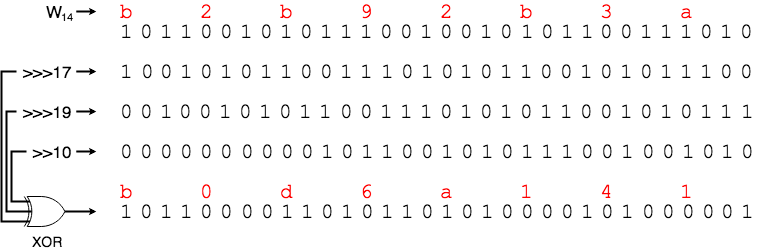
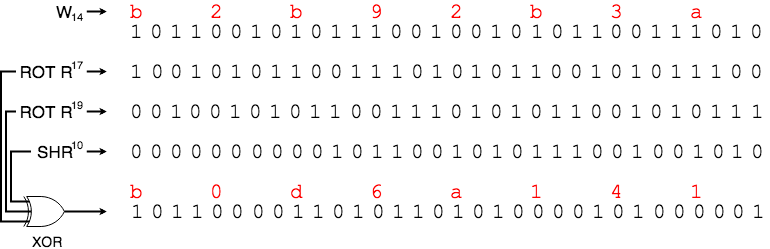
Update Tex file and upload new images.

diff --git a/Bitcoin_block_SHA_256_es.tex b/Bitcoin_block_SHA_256_es.tex
@@ -373,7 +373,7 @@ int main(int argc, char *argv[]) {
             \includegraphics[scale=0.5]{img/SHA-256-Wt.png}
             \caption{Representación gráfica de $W_{t}$}
         \end{figure}
-    Las funciones  $\sigma_{0}$ y $\sigma_{1}$ realizan las siguientes operaciones lógicas de compresión.
+    Las funciones  $\sigma_{0}$ y $\sigma_{1}$ realizan las siguientes operaciones lógicas de compresión con cada uno de los bits de la palabra almacenada en el segmento de $W_t$ que procesan.
         \begin{figure}[H]
         \centering
             $\begin{array}{l}
@@ -392,19 +392,38 @@ int main(int argc, char *argv[]) {
         $\Downarrow$ \\
         $\sigma_{1}(W_{14})+W_{9}+\sigma_{0}(W_{1})+W_{0}$
     \end{figure}
+    
     En este ejemplo los segmentos $W_{14}$, $W_{9}$, $W_{1}$ y $W_{0}$ de la primera ronda (\textit{Ronda \texttt{\#}0}) tienen asignados los siguientes valores:
     \begin{figure}[H]
     \centering
-        $W_{14} = \texttt{0xb2b92b3a} \ W_{9} = \texttt{0x8a97295a}$ \\
-        $W_{1} = \texttt{0x17975b97} \ W_{0} = \texttt{0x02000000}$
+        $\begin{array}{rl}
+            W_{14} = \texttt{0xb2b92b3a} & W_{9} = \texttt{0x8a97295a} \\
+            W_{1}\  = \texttt{0x17975b97} & W_{0} = \texttt{0x02000000}
+        \end{array}$
     \end{figure}
     
-    Empecemos con la operación lógica de compresión $\sigma_{1}$, que aplica sobre el valor del segmento $W_{14}$.
+    A continuación se muestra una representación gráfica la operación lógica de compresión $\sigma_{1}$, que aplica sobre el valor del segmento $W_{14}$.
     
     \begin{figure}[H]
     \centering
-        \includegraphics[scale=0.41]{img/SHA-256-Wt_operacion_sigma1.png}
-        \caption{Cálculo bit a bit para $ROT \ R^{17}(x) \oplus ROT \ R^{19}(x) \oplus SHR^{10}(x)$}
+        \includegraphics[scale=0.445]{img/SHA-256-Wt_operacion_sigma1.png}
+        \caption{Operación $ROT \ R^{17}(x) \oplus ROT \ R^{19}(x) \oplus SHR^{10}(x)$ con cada bit.}
+    \end{figure}
+    
+    Tras el cálculo de $\sigma_{1}(W_{14})$ se obtiene la palabra hexadecimal de 32 bits $\texttt{b0d6a141}$. Se ha de reservar este valor para calcular el resultado final. También se muestra la la representación gráfica la operación lógica de compresión $\sigma_{0}$, que aplica sobre el valor del segmento $W_{1}$.
+    
+    \begin{figure}[H]
+    \centering
+        \includegraphics[scale=0.445]{img/SHA-256-Wt_operacion_sigma0.png}
+        \caption{Operación $ROT \ R^{7}(x) \oplus ROT \ R^{18}(x) \oplus SHR^{3}(x)$ con cada bit.}
+    \end{figure}
+    
+    Tras el cálculo de $\sigma_{0}(W_{1})$ se obtiene la palabra hexadecimal de 32 bits $\texttt{fa380020}$. Una vez realizados los cálculos necesarios para obtener el valor de $\sigma_{1}(W_{14})$ y $\sigma_{0}(W_{1})$ finalmente se ha de realizar la siguiente operación final.
+    
+    \begin{figure}[H]
+    \centering
+        \includegraphics[scale=0.445]{img/SHA-256-Wt_operacion_mod2_32_final.png}
+        \caption{Operación final $mod \ 2^{32} (\sigma_{1}(W_{14}), W_9, \sigma_{0}(W_{1}), W_0)$.}
     \end{figure}
     
     Estas normas también aplican a las reglas criptográficas de los bloques en el protocolo Bitcoin, solo que hay que tener en cuenta que la cadena de entrada $M$ en cada bloque tiene una longitud superior a 512 bits, lo que implica utilizar la función \textit{hash} SHA-256 tres veces, una por cada ronda, y el valor de la longitud de $M$ solo se aplicará en el esquema de relleno de la segunda y tercera ronda. En la primera ronda (\textit{Ronda \texttt{\#}0}) se rellenan los primeros 16 segmentos de la variable $W_t$ con todos los bytes en hexadecimal que quepan, es decir, los primeros 512 bits de $M$, rellenando también los segmentos $W_{14}$ y $W_{15}$. Los 128 bits restantes de la cadena de entrada $M$ que no caben en esta primera ronda se reservan para los primeros 4 registros de $W_t$ de la segunda ronda. Tras la segunda ronda (\textit{Ronda \texttt{\#}1}) se obtiene un \textit{digest} de 256 bits que se utiliza para rellenar los primeros 8 segmentos de $W_t$ en la tercera y última ronda (\textit{Ronda \texttt{\#}2}). La siguiente figura se detalla el contenido de los primeros 16 registros de la variable $W_{t}$ en cada una de las tres veces que se ejecutan las 64 iteraciones de la función SHA-256 para obtener el \textit{digest} en cada caso.
